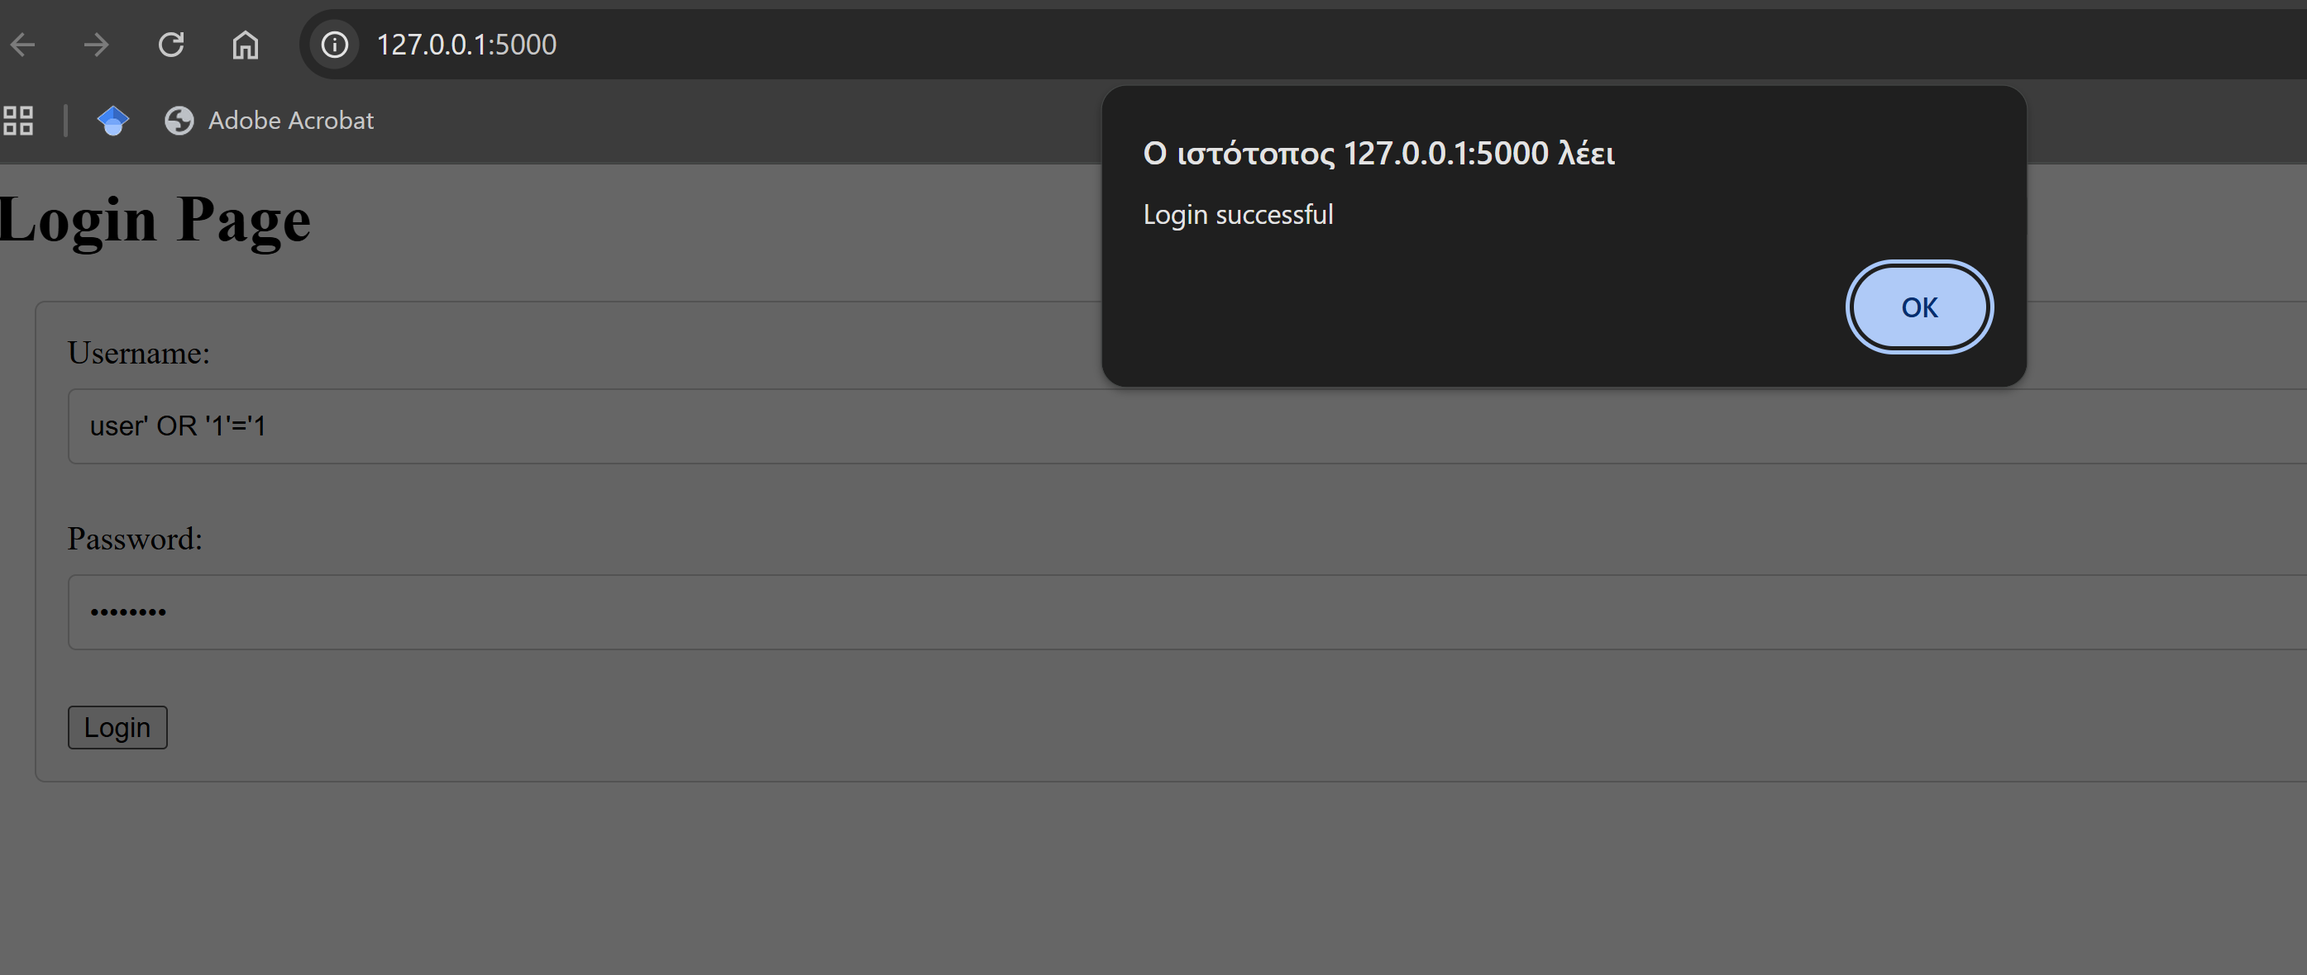
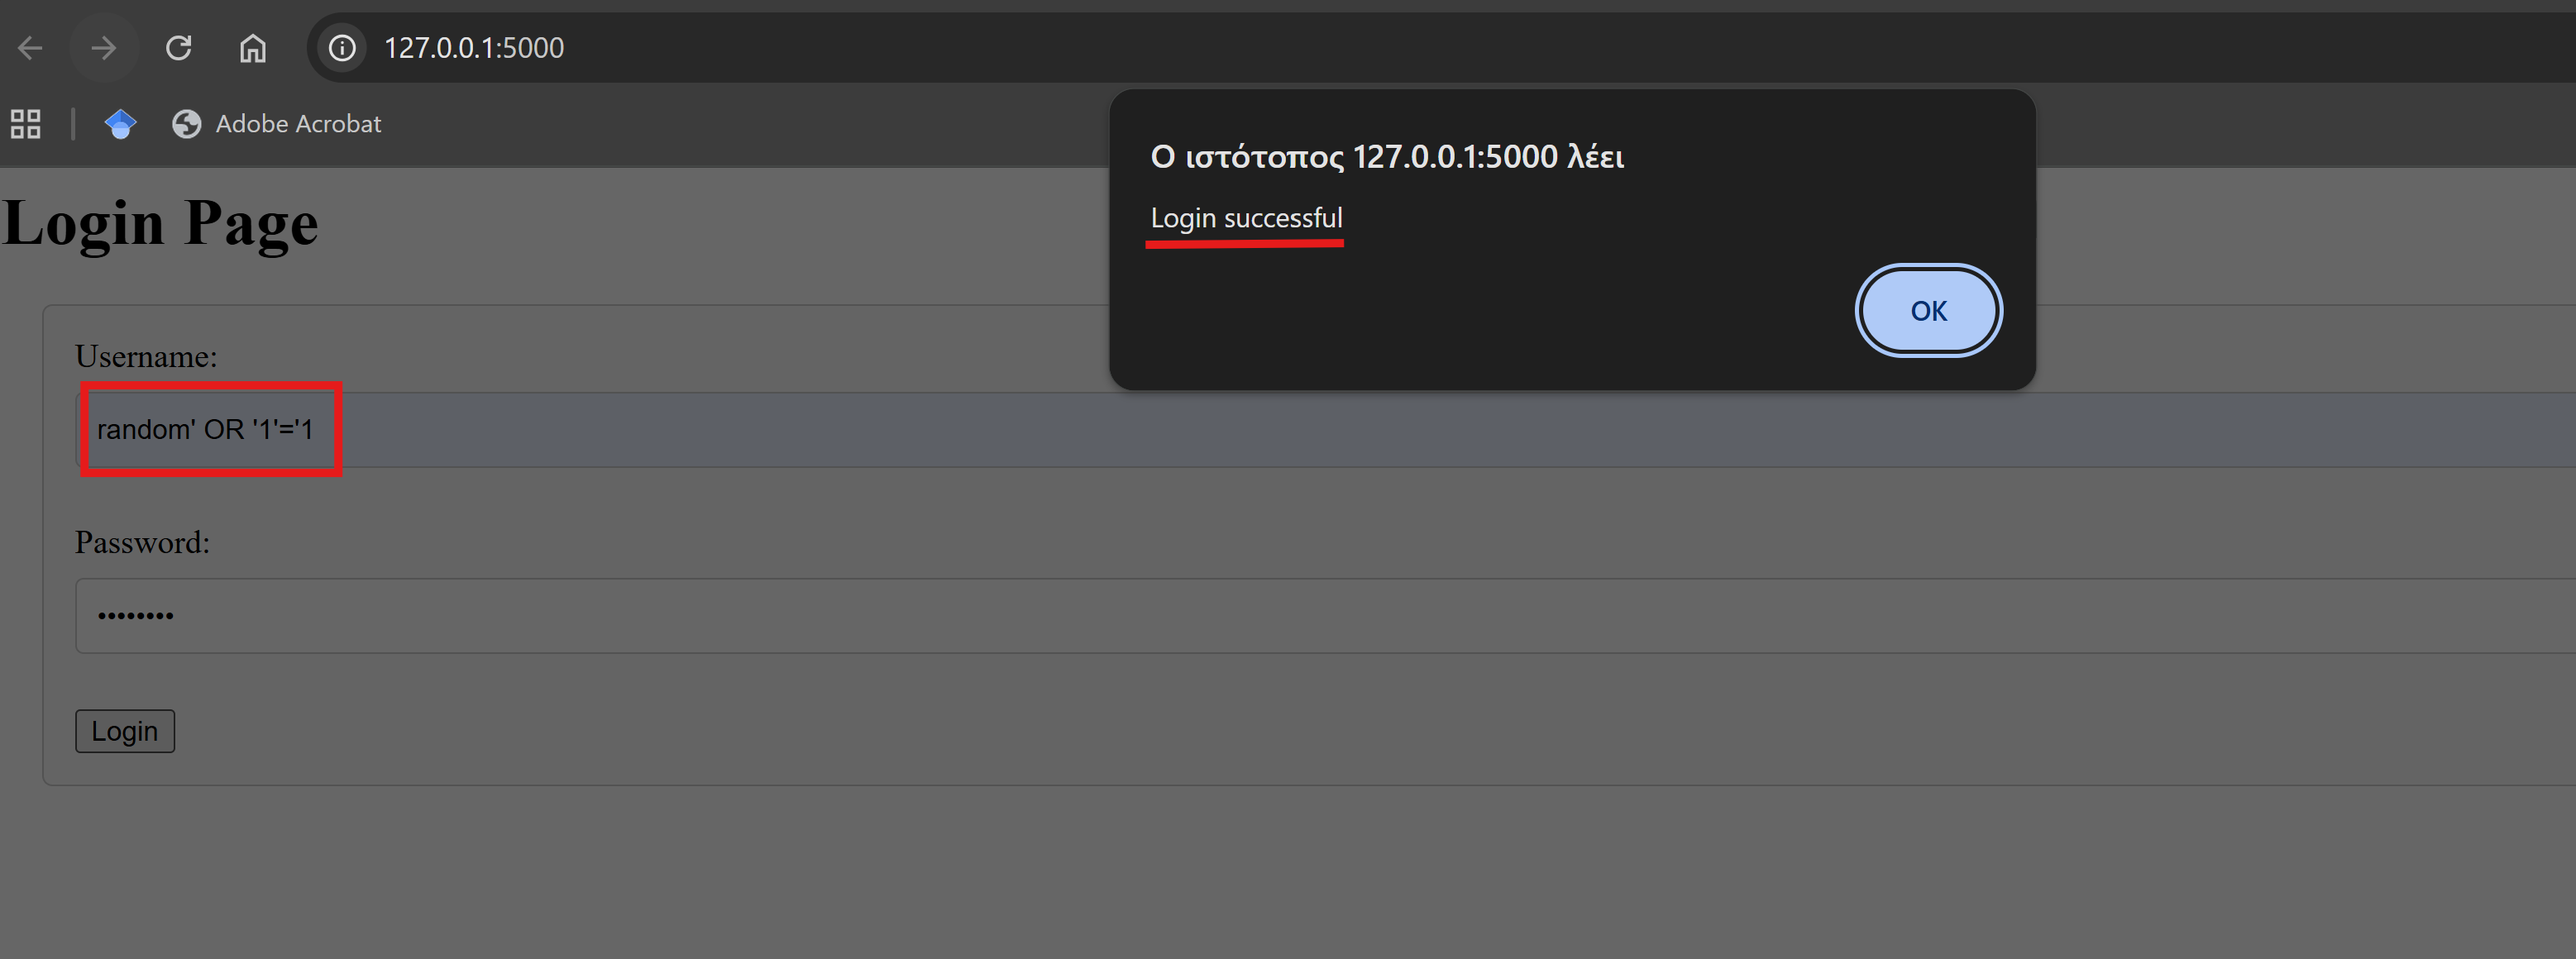
update screenshot version 2

diff --git a/version_2/app.py b/version_2/app.py
@@ -25,8 +25,8 @@ def login():
     connection = get_db()
     cursor = connection.cursor()
 
-    cursor.execute("SELECT * FROM users WHERE username = ?", (username,))
-    #cursor.execute(f"SELECT * FROM users WHERE username = '{username}'")   #this would be vulnerable to SQL injection
+    #cursor.execute("SELECT * FROM users WHERE username = ?", (username,))
+    cursor.execute(f"SELECT * FROM users WHERE username = '{username}'")   #this would be vulnerable to SQL injection
 
     user = cursor.fetchone()
     connection.close()
